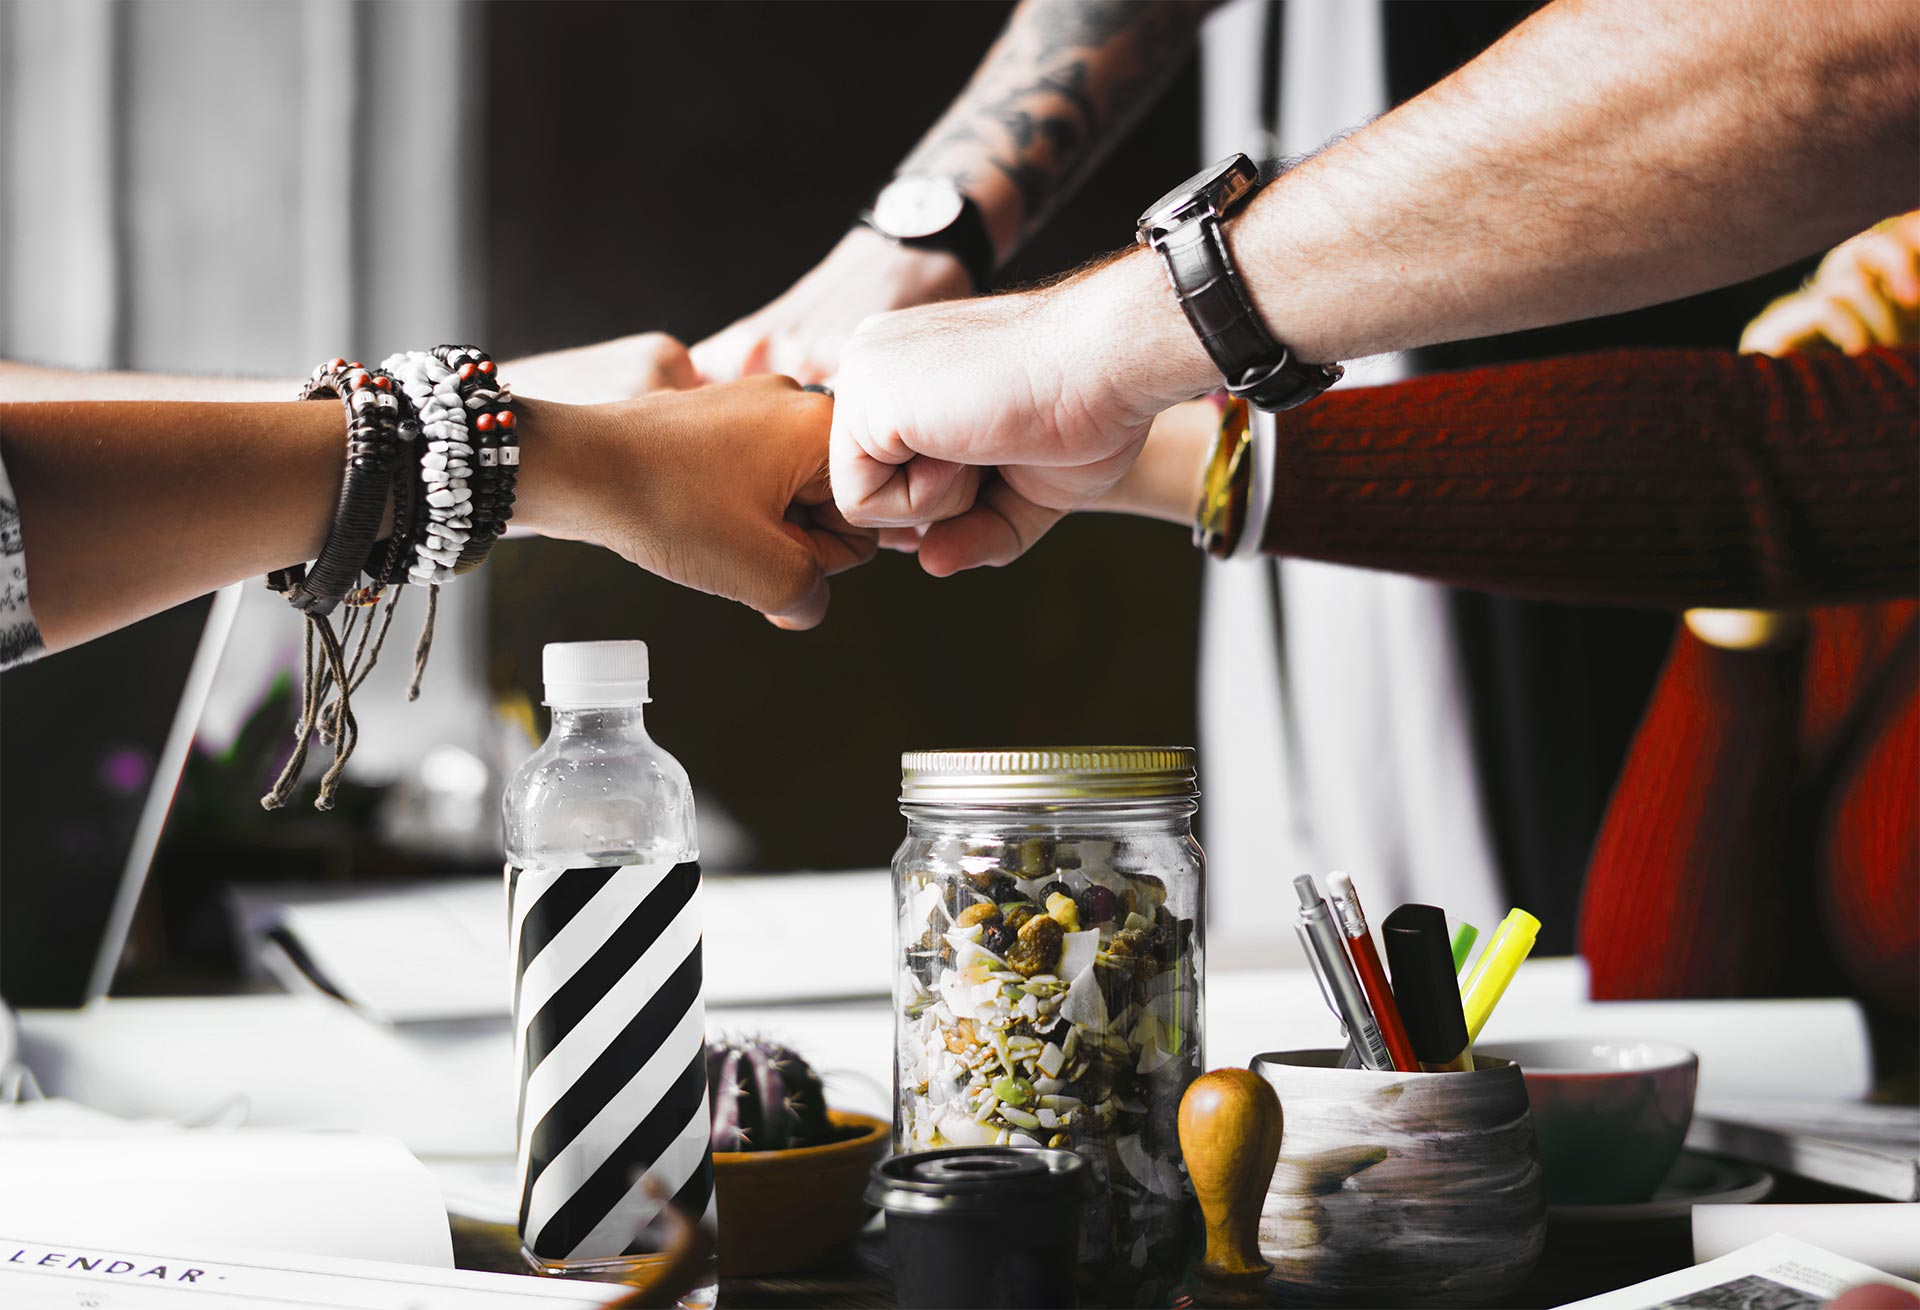
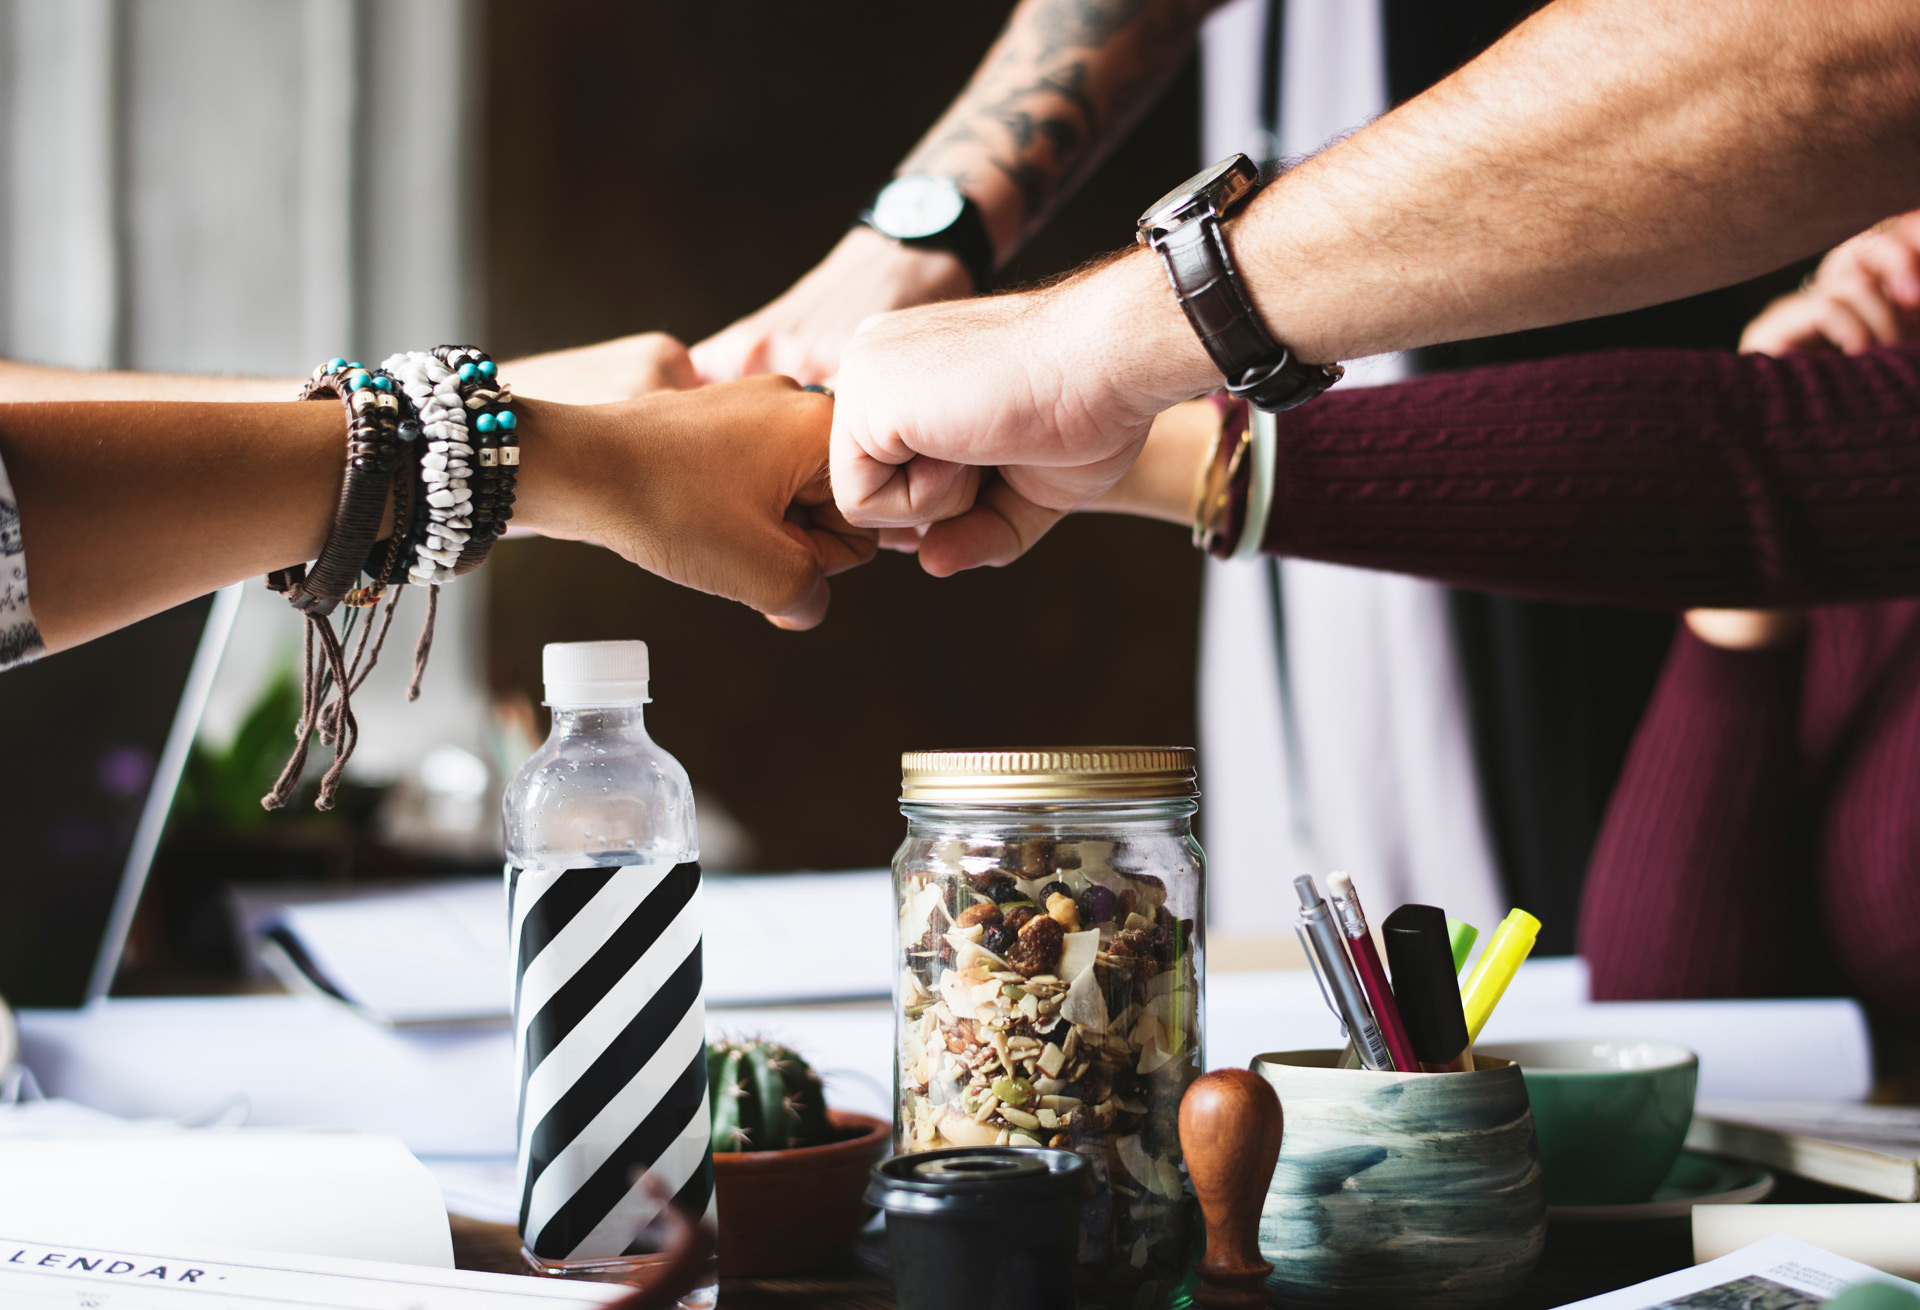
exchanged HOME BG pictures (original ones, lower capacity)

diff --git a/index.html b/index.html
@@ -32,7 +32,7 @@ permalink: "/"
   <div class="js-slide"
         data-title="Blog">
     <!-- Promo Block -->
-    <div class="g-flex-centered g-height-100vh g-min-height-500--md g-bg-cover g-bg-pos-center g-bg-img-hero" style="background-image: linear-gradient(transparent, 80%, white), url(img/HOMEblogtest.jpg);">
+    <div class="g-flex-centered g-height-100vh g-min-height-500--md g-bg-cover g-bg-pos-center g-bg-img-hero" style="background-image: linear-gradient(white, 5%, transparent, 80%, white), url(img/HOMEblog.jpg);">
       <div class="container text-center g-z-index-1">
         <h2 class="text-uppercase g-font-weight-700 g-font-size-22 g-font-size-36--md g-color-white g-mb-20">We are a accounting firm unify
           <br> providing
